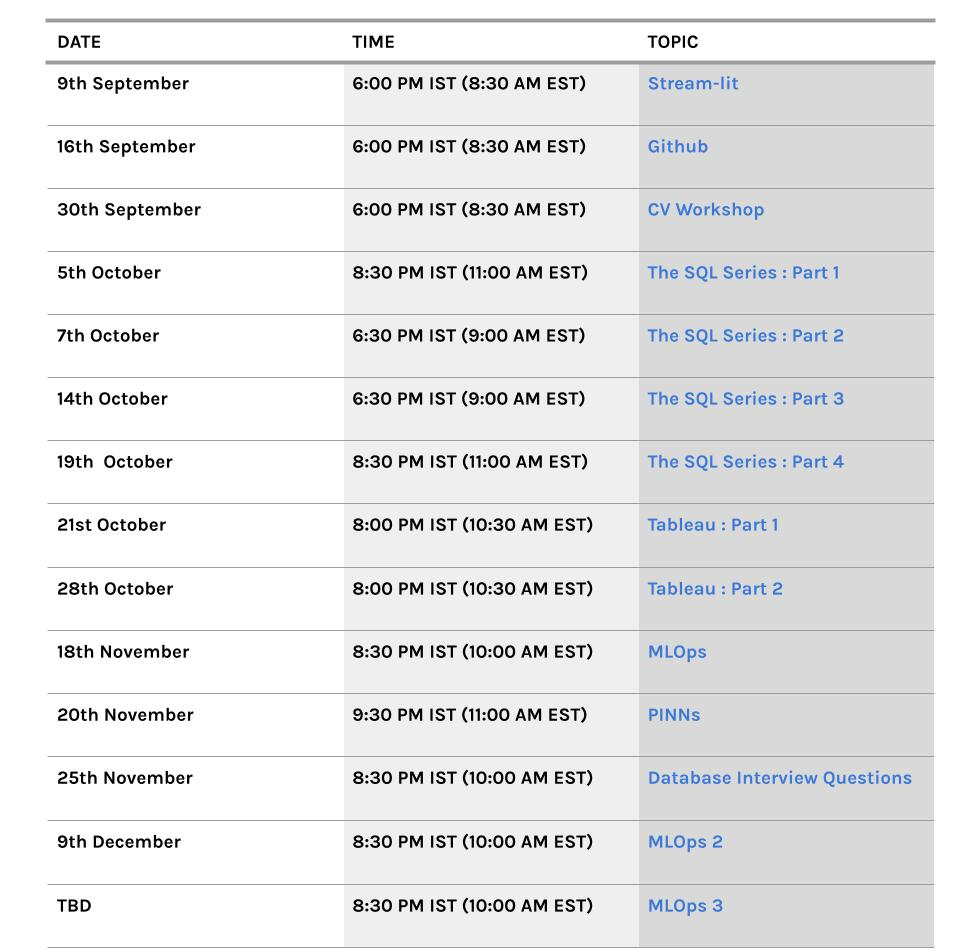
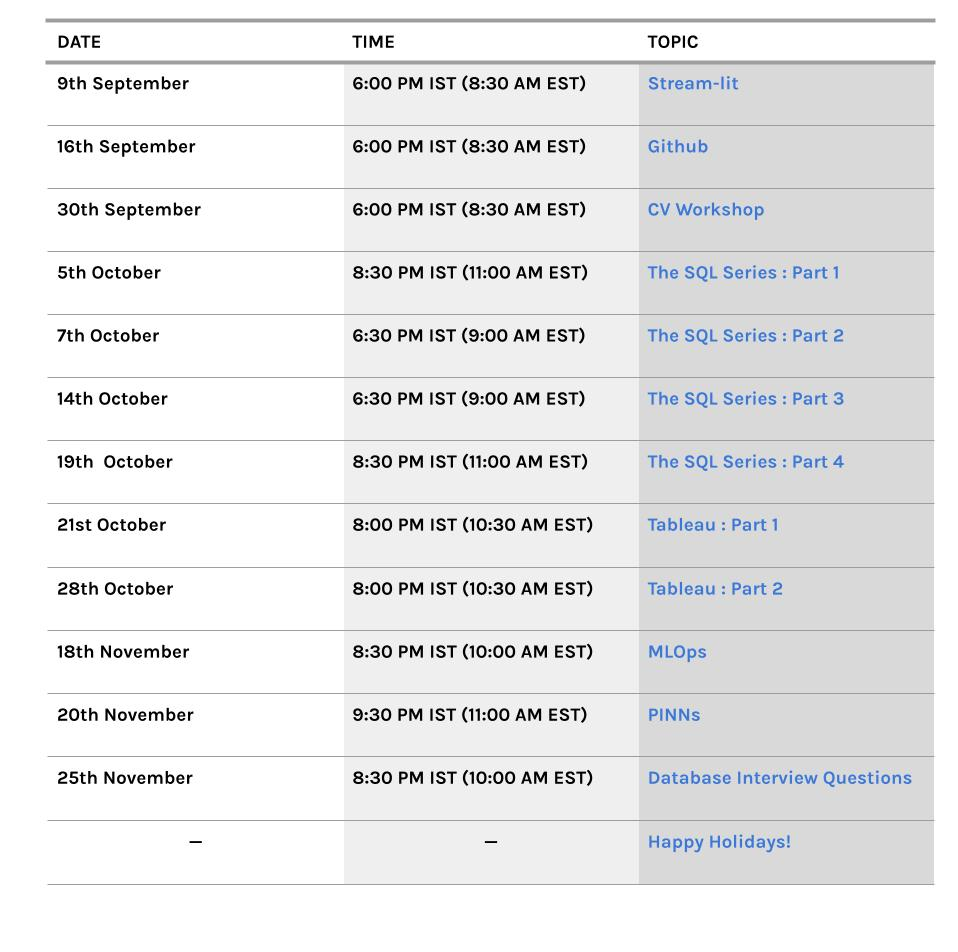
Uncourse schedule update

diff --git a/_pages/uncourse.md b/_pages/uncourse.md
@@ -36,9 +36,9 @@ sequence: 1
 
 Uncourse is a series of workshops that we conduct for our students, for them to learn skills that are not covered in the sessions, but are important to learn in order to excel in the field of data science and AI.
 
-Welcome to the second cycle of the series!
+This was to the second cycle of the series.
 
-Here is the current schedule for all our workshops.
+Here is the lastest schedule for all our workshops. Uncourse will be back in January 2023! Happy Holidays to all.
 
 *(Click on the topic cell of the workshop table to know more)*
 <div class="container">
